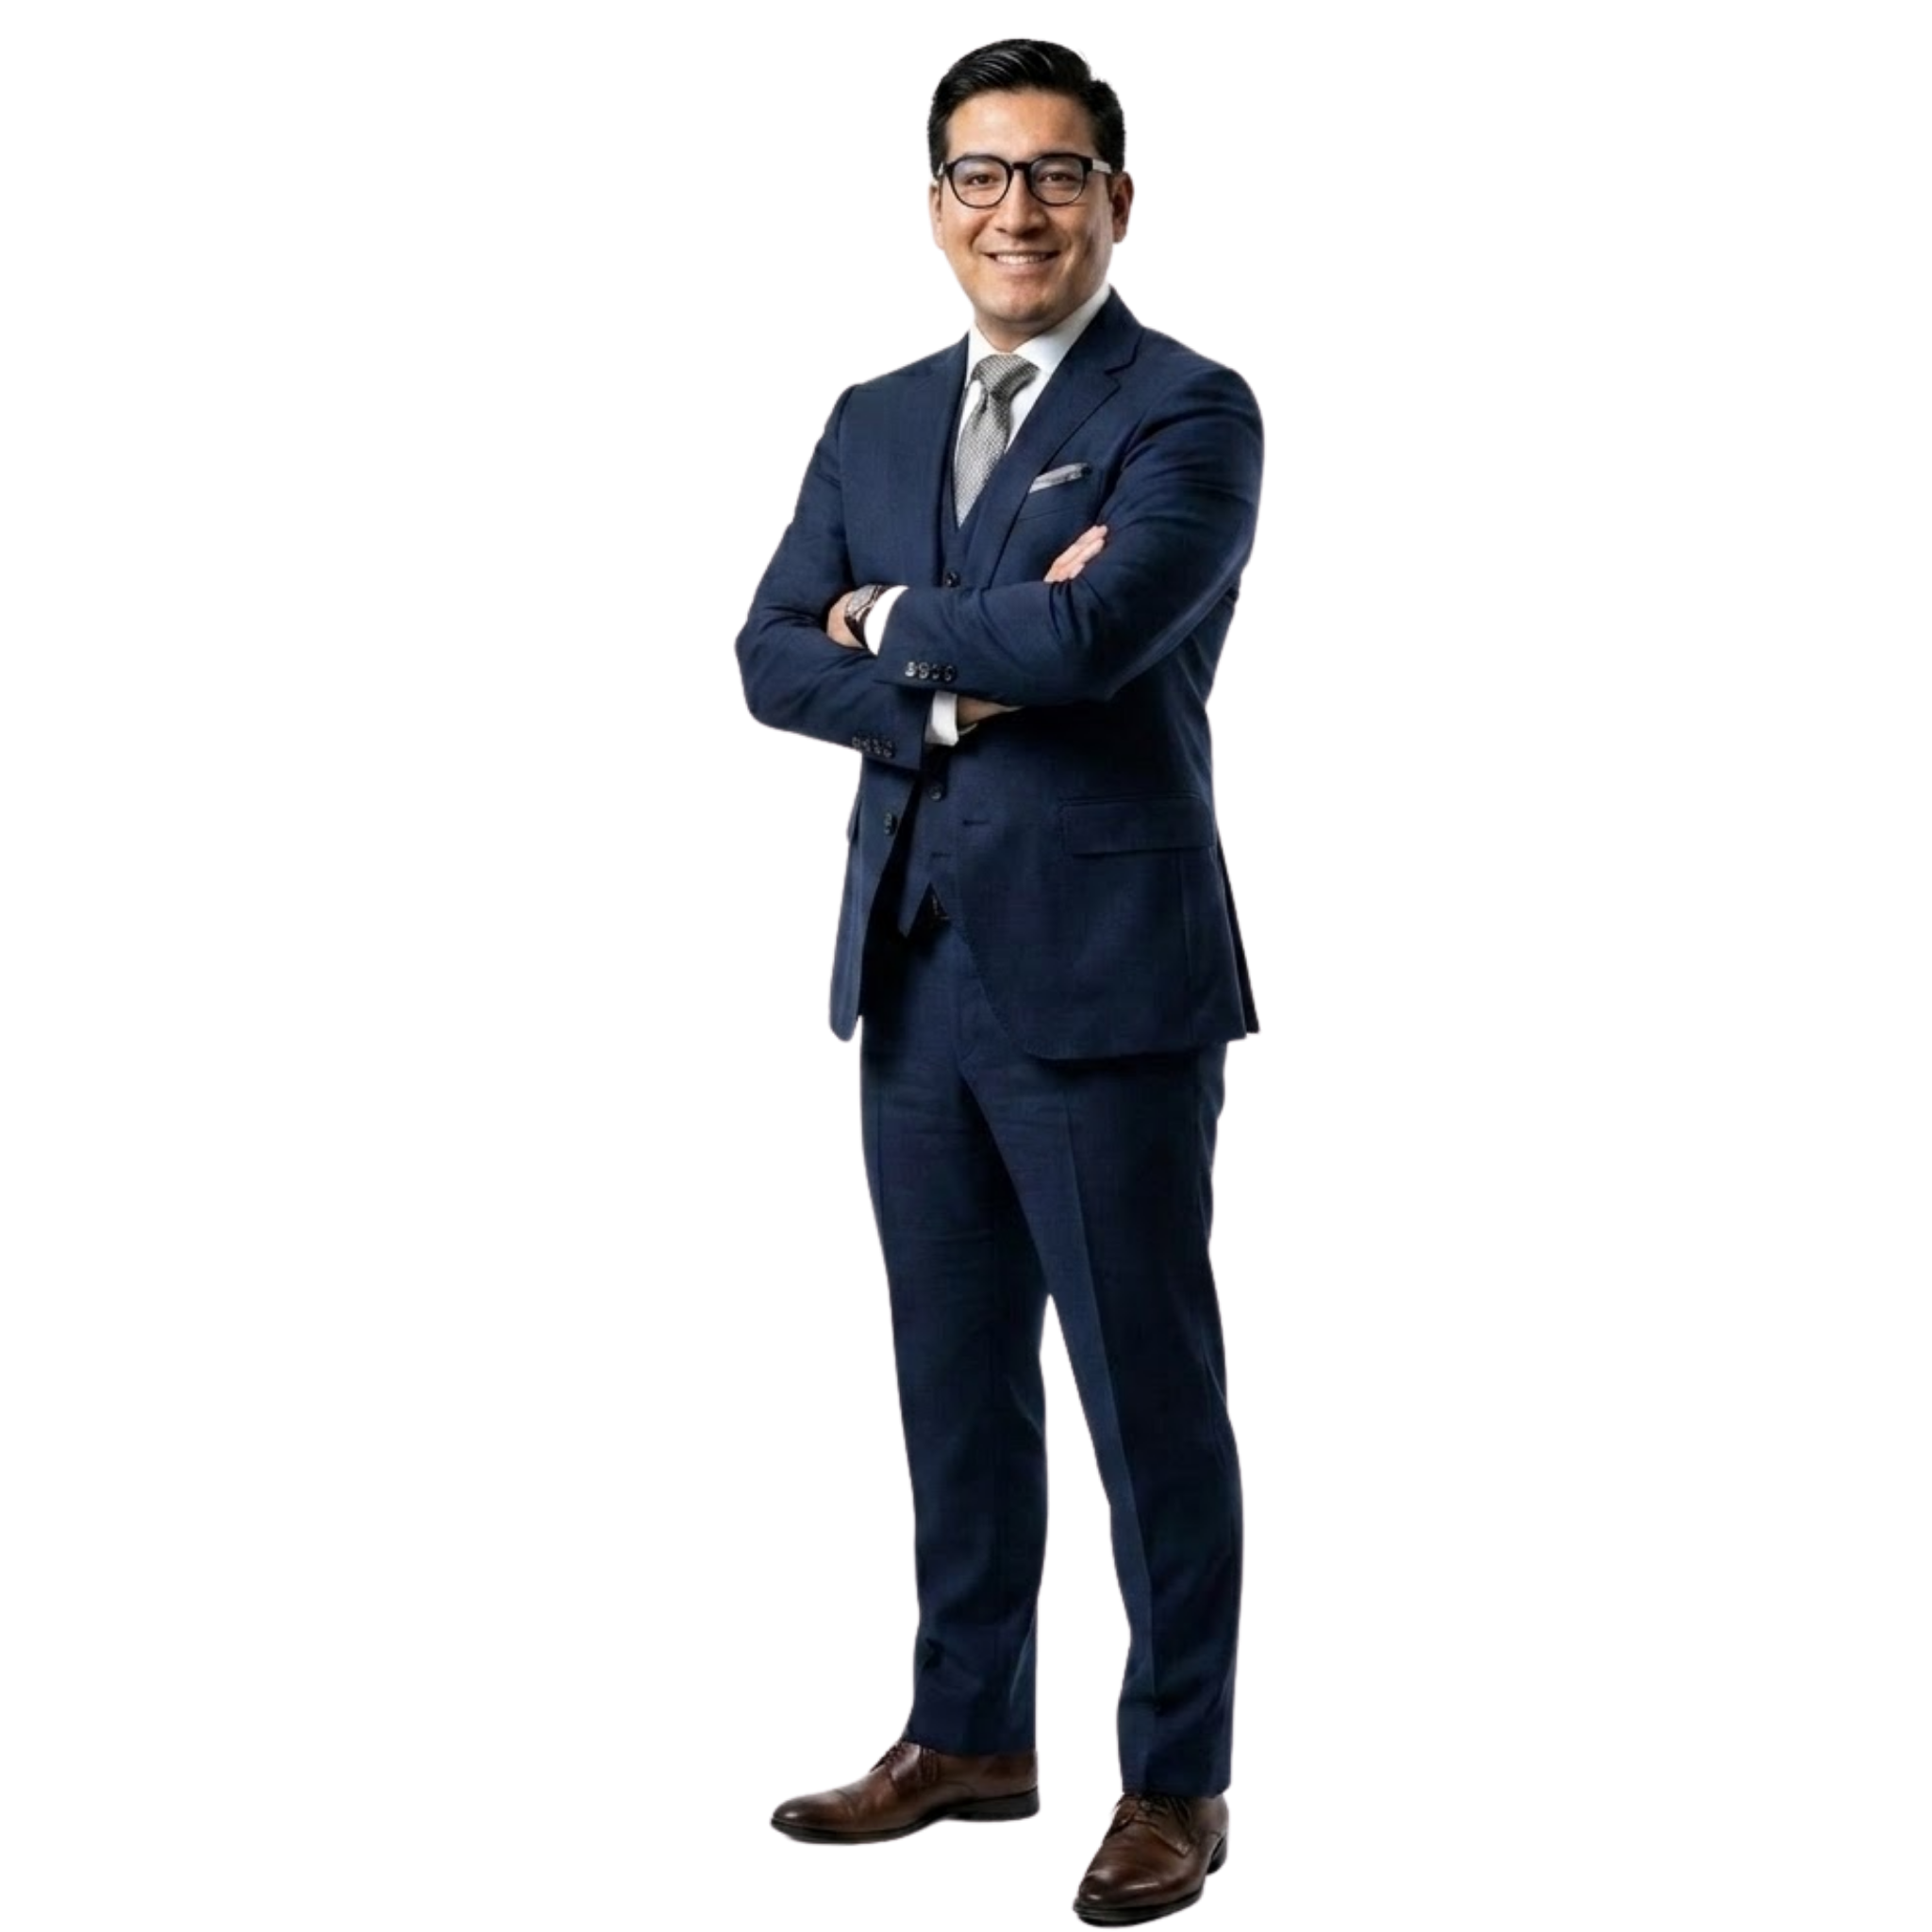
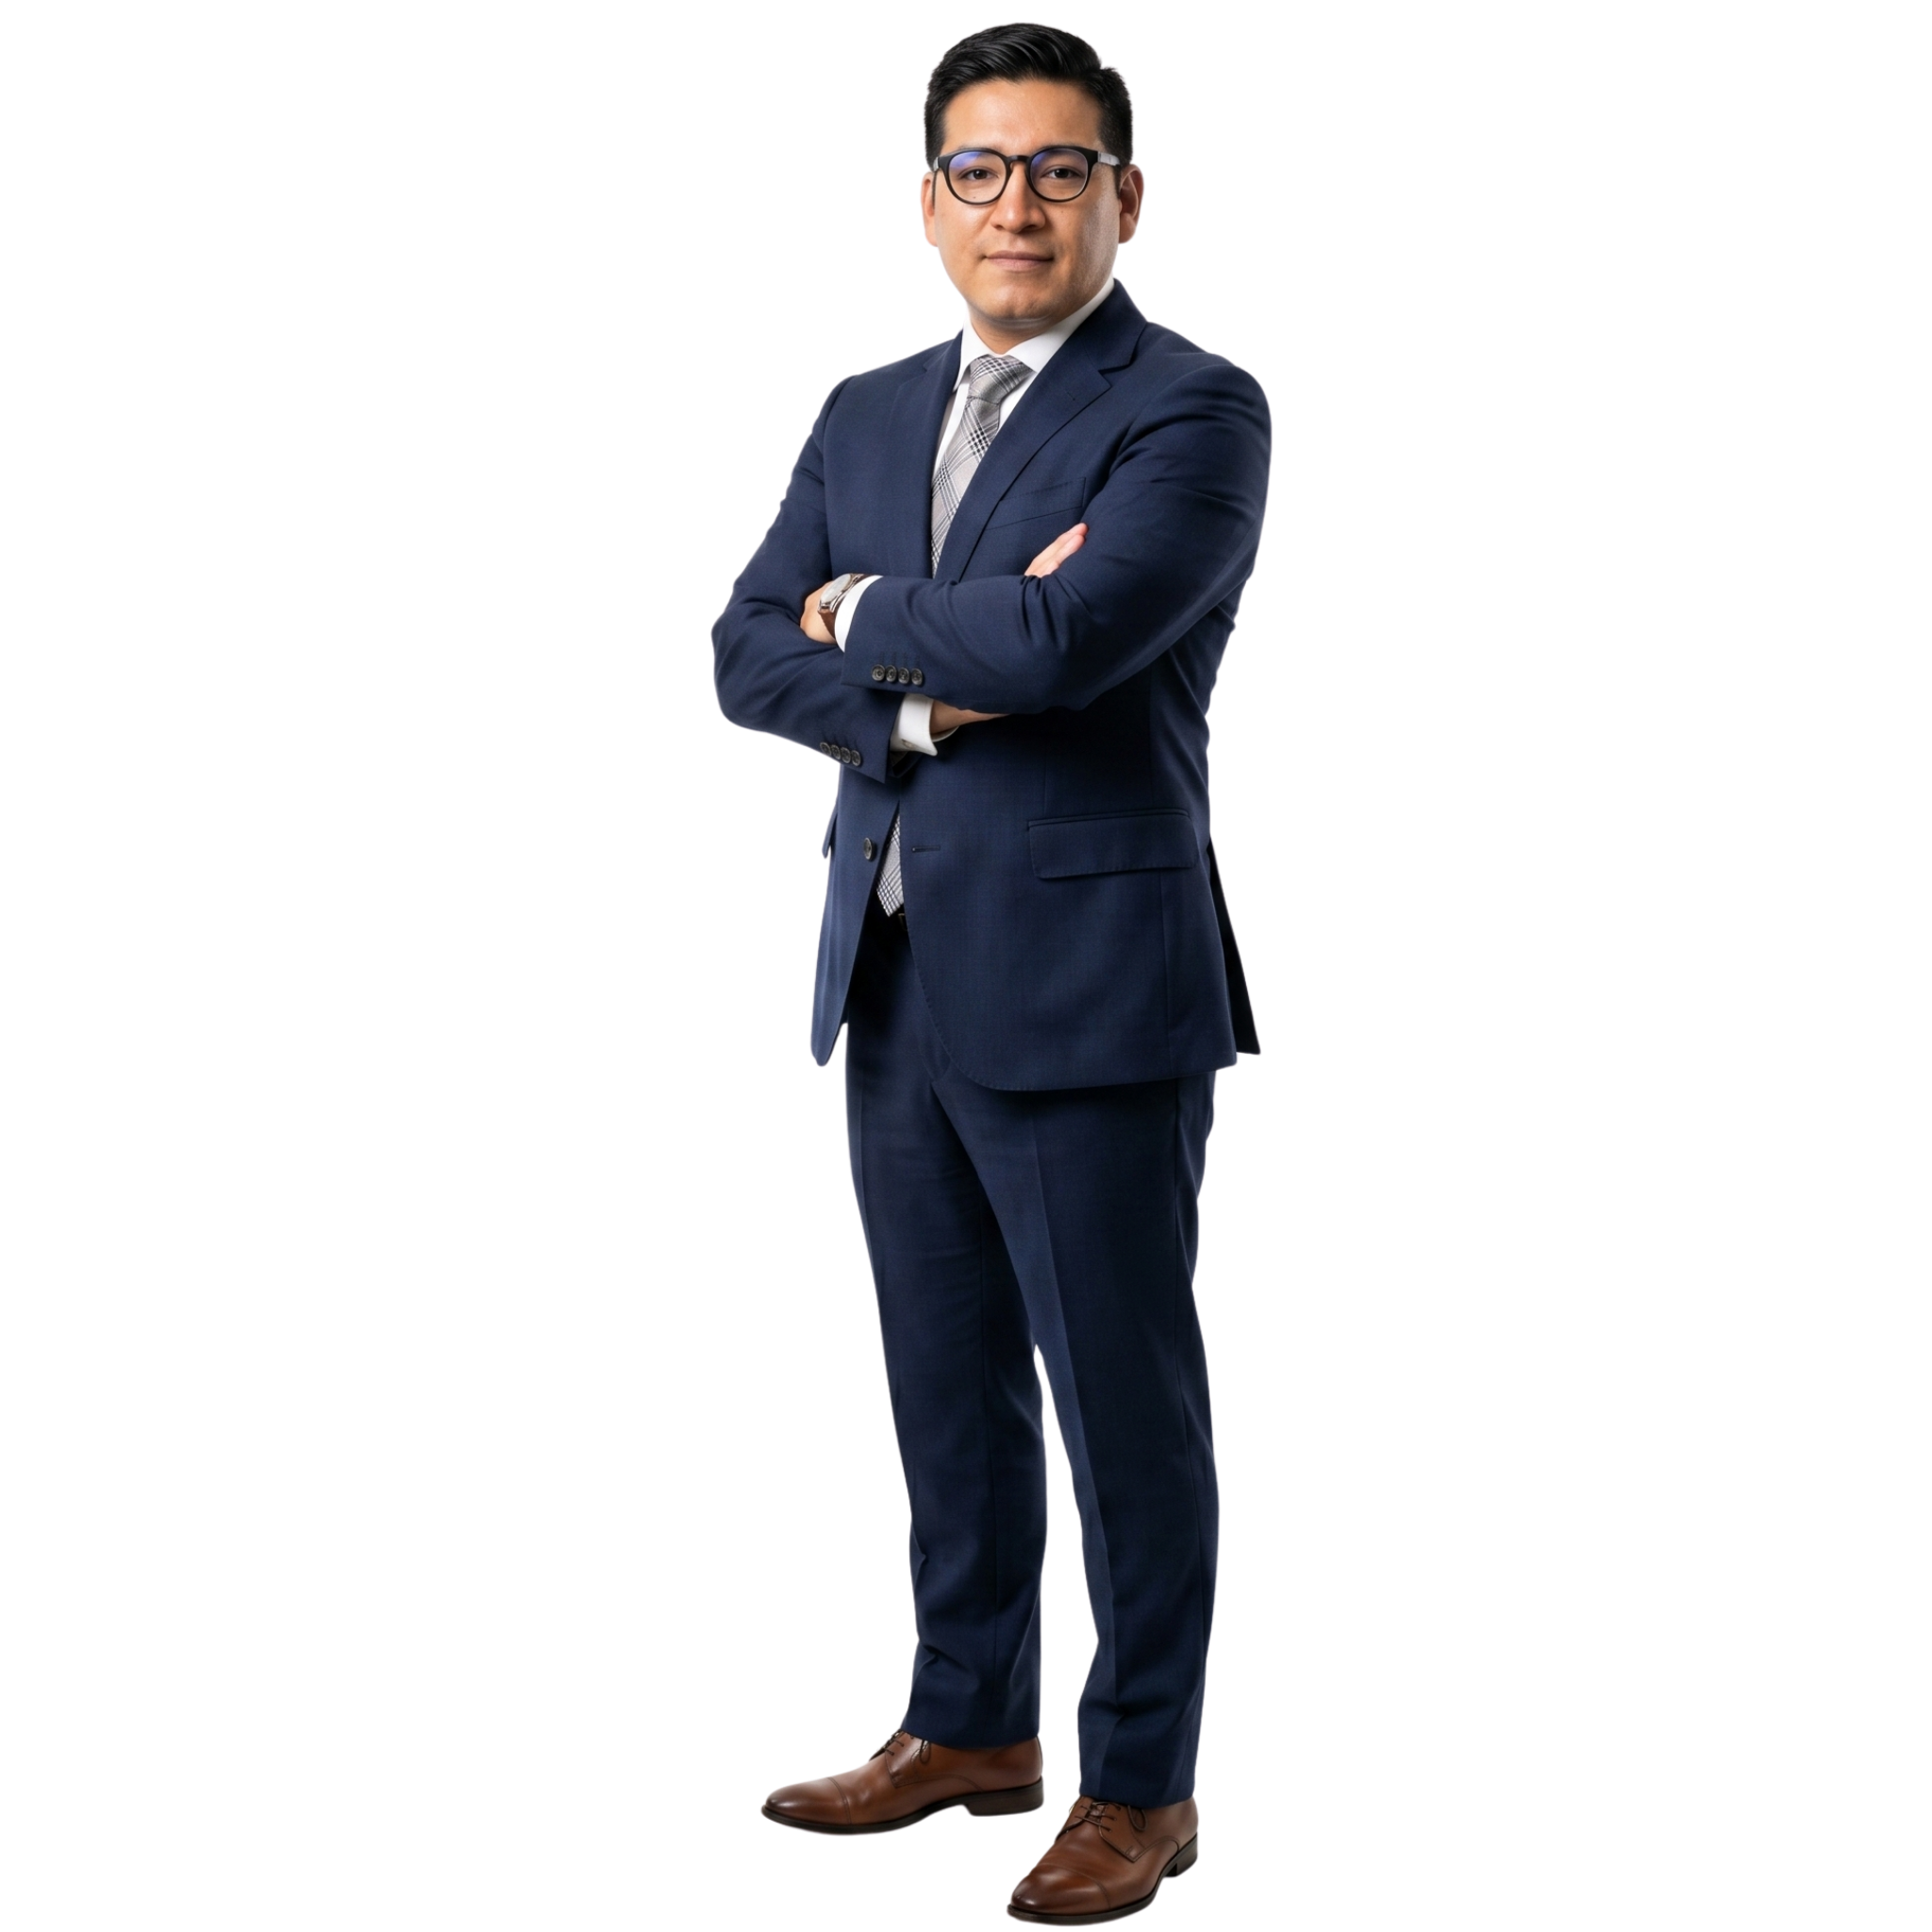
.

Changed region(s): [[0.3438, 0.0, 0.6562, 1.0]]

diff --git a/src/app/globals.css b/src/app/globals.css
@@ -151,7 +151,7 @@ body {
     transform: scale(1.1);
   }
   87.5% {
-    transform: scale(1.22);
+    transform: scale(1.28);
   }
 }
 
@@ -161,8 +161,8 @@ body {
     transform: translate(-50%, -50%) scale(1);
   }
   87.5% {
-    opacity: 0.6;
-    transform: translate(-50%, -50%) scale(1.4);
+    opacity: 0.75;
+    transform: translate(-50%, -50%) scale(1.5);
   }
 }
 
@@ -171,8 +171,33 @@ body {
     opacity: 0;
   }
   87.5% {
-    opacity: 0.45;
+    opacity: 0.6;
   }
+}
+
+@keyframes textDimTitle {
+  0%, 75%, 100% { opacity: 1; }
+  87.5% { opacity: 0.85; }
+}
+
+@keyframes textDimSubtitle {
+  0%, 75%, 100% { opacity: 1; }
+  87.5% { opacity: 0.7; }
+}
+
+@keyframes textDimDesc {
+  0%, 75%, 100% { opacity: 1; }
+  87.5% { opacity: 0.45; }
+}
+
+@keyframes textDimButtons {
+  0%, 75%, 100% { opacity: 1; }
+  87.5% { opacity: 0.75; }
+}
+
+@keyframes textDimStats {
+  0%, 75%, 100% { opacity: 1; }
+  87.5% { opacity: 0.45; }
 }
 
 .animate-hero-highlight {
@@ -185,4 +210,24 @@ body {
 
 .animate-backdrop-dim {
   animation: backdropDim 8s ease-in-out infinite;
+}
+
+.animate-text-dim-title {
+  animation: textDimTitle 8s ease-in-out infinite;
+}
+
+.animate-text-dim-subtitle {
+  animation: textDimSubtitle 8s ease-in-out infinite;
+}
+
+.animate-text-dim-desc {
+  animation: textDimDesc 8s ease-in-out infinite;
+}
+
+.animate-text-dim-buttons {
+  animation: textDimButtons 8s ease-in-out infinite;
+}
+
+.animate-text-dim-stats {
+  animation: textDimStats 8s ease-in-out infinite;
 }

diff --git a/src/components/HeroSection.tsx b/src/components/HeroSection.tsx
@@ -48,19 +48,19 @@ export default function HeroSection() {
         <div className="grid grid-cols-1 md:grid-cols-2 gap-12 lg:gap-16 items-center">
           {/* Left Column: Text, Buttons, Stats */}
           <div className="order-2 md:order-1 text-center md:text-left flex flex-col justify-center">
-            <h1 className="reveal opacity-0 text-3xl sm:text-4xl md:text-5xl lg:text-5xl font-bold tracking-tight text-white mb-3 leading-tight">
+            <h1 className="reveal opacity-0 text-3xl sm:text-4xl md:text-5xl lg:text-5xl font-bold tracking-tight text-white mb-3 leading-tight animate-text-dim-title">
               {t.hero.title1} {t.hero.title2}
             </h1>
 
-            <p className="reveal opacity-0 text-base sm:text-xl md:text-xl text-gray-300 max-w-3xl mx-auto md:mx-0 mb-3 leading-snug font-medium">
+            <p className="reveal opacity-0 text-base sm:text-xl md:text-xl text-gray-300 max-w-3xl mx-auto md:mx-0 mb-3 leading-snug font-medium animate-text-dim-subtitle">
               {t.hero.subtitle}
             </p>
 
-            <p className="reveal opacity-0 text-sm sm:text-base md:text-base text-gray-400 max-w-2xl mx-auto md:mx-0 mb-6 leading-relaxed">
+            <p className="reveal opacity-0 text-sm sm:text-base md:text-base text-gray-400 max-w-2xl mx-auto md:mx-0 mb-6 leading-relaxed animate-text-dim-desc">
               {t.hero.description}
             </p>
 
-            <div className="reveal opacity-0 flex flex-col sm:flex-row items-center justify-center md:justify-start gap-4">
+            <div className="reveal opacity-0 flex flex-col sm:flex-row items-center justify-center md:justify-start gap-4 animate-text-dim-buttons">
               <a
                 href="#projects"
                 className="group inline-flex items-center gap-2 w-full sm:w-auto justify-center px-8 py-3.5 bg-[#2563eb] hover:bg-[#1d4ed8] text-white font-medium rounded-xl transition-all duration-300 shadow-lg shadow-[#2563eb]/25 hover:shadow-[#2563eb]/40 hover:-translate-y-0.5"
@@ -78,7 +78,7 @@ export default function HeroSection() {
             </div>
 
             {/* Stats */}
-            <div className="reveal opacity-0 mt-8 md:mt-10 grid grid-cols-1 sm:grid-cols-3 gap-6 max-w-2xl mx-auto md:mx-0 border-t border-white/5 pt-6">
+            <div className="reveal opacity-0 mt-8 md:mt-10 grid grid-cols-1 sm:grid-cols-3 gap-6 max-w-2xl mx-auto md:mx-0 border-t border-white/5 pt-6 animate-text-dim-stats">
               <div className="text-center md:text-left">
                 <div className="text-2xl sm:text-3xl font-bold text-transparent bg-clip-text bg-gradient-to-r from-[#60a5fa] to-[#2563eb]">{t.hero.stat1_value}</div>
                 <div className="text-xs sm:text-sm text-gray-400 mt-1">{t.hero.stat1_label}</div>

diff --git a/src/components/Navbar.tsx b/src/components/Navbar.tsx
@@ -37,7 +37,7 @@ export default function Navbar() {
     <nav
       className={`fixed top-0 left-0 right-0 z-50 transition-all duration-300 ${
         isScrolled
-          ? "bg-white/80 backdrop-blur-md shadow-lg shadow-gray-100/40"
+          ? "bg-white shadow-md shadow-gray-200/50"
           : "bg-transparent"
       }`}
     >